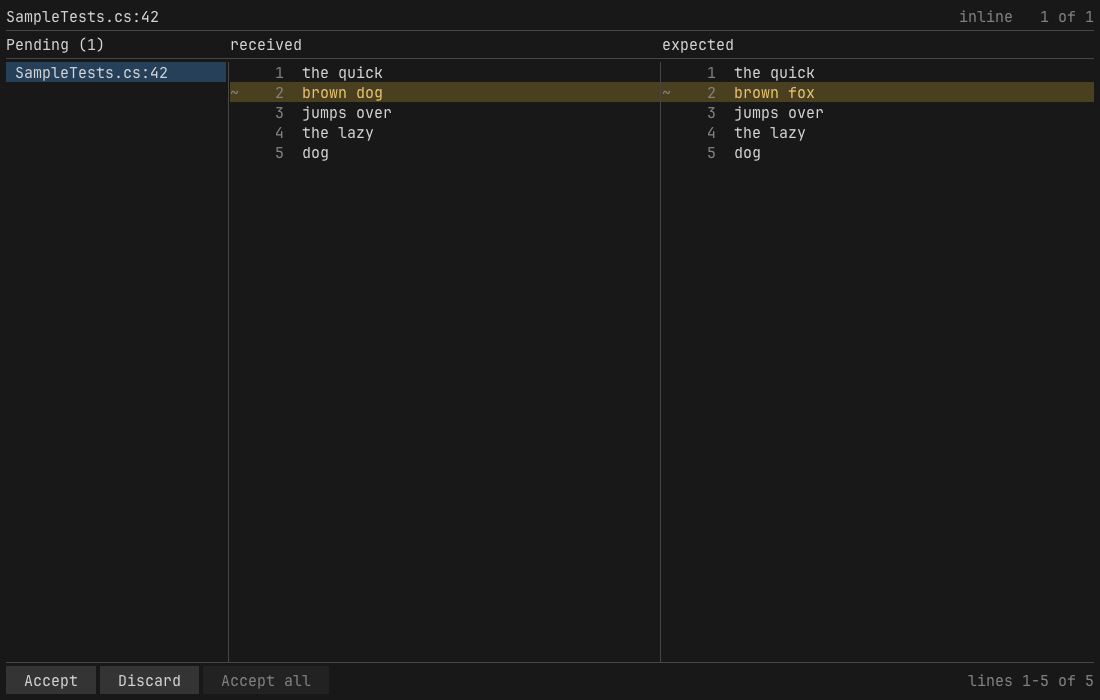
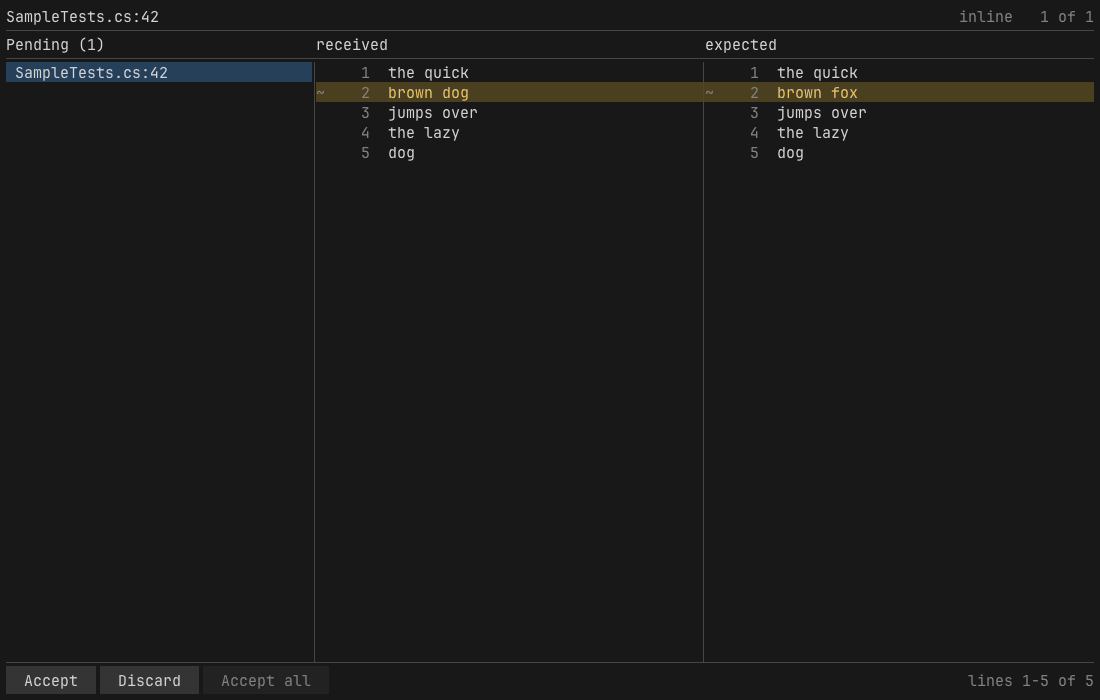
Keep the ImGui queue column deterministic and drag it by hand
ImGuiTableFlags_Resizable would give the drag for free, but it also hands the column width to
ImGui's table state, which initialises once and then auto-fits or restores from saved settings. A
fixed column that is not resizable takes InitStretchWeightOrWidth on every frame instead
(imgui_tables.cpp TableGetColumnWidthAuto), which is what made the old constant 220 reproduce.

The pixel captures share one context and one table id and draw a single frame each, so with
Resizable the width carried between them: in one CI run the same column came out at 34 cells for
InlineSingle and InlineQueue, a content fit for LongQueueLabel, and the old width for
InlineAccepted, which is a baseline that depends on the order the tests ran in.

So the width lives in State, is handed to the table every frame, and the drag is an InvisibleButton
over the border. Submitted after the table so it wins the overlap, and inert during a capture,
which never feeds a mouse button. It moves the width by the distance between the cursor and the
border rather than setting it from the cursor, because a column width is its inner width and the
border sits a padding and a spacing further right.

Also applies the cursor ImGui asks for. Nothing here did, so ResizeEW would have been recorded and
never shown.

The macOS baselines are the ones from the CI run and are final. The Linux ones still have to be
regenerated against a binary built from this.

Changed region(s): [[0.1855, 0.06, 0.4327, 0.24], [0.5873, 0.06, 0.8036, 0.24]]

diff --git a/native/src/deview.cpp b/native/src/deview.cpp
@@ -12,6 +12,7 @@
 #include "raylib.h"
 #include "rlgl.h"
 
+#include <algorithm>
 #include <cstring>
 #include <string>
 
@@ -35,15 +36,56 @@ void ClearCloseFlag()
     }
 }
 
+/*
+ * Queue column widths, counted in character cells rather than pixels so a scaled display gets a
+ * column that holds the same number of characters rather than a narrower one.
+ */
+constexpr float queueCells = 34.0f;
+constexpr float minQueueCells = 8.0f;
+
+/*
+ * What the drag leaves each of the two panes, so the splitter cannot be pushed far enough right to
+ * squeeze them out of existence.
+ */
+constexpr float minPaneCells = 12.0f;
+
+/*
+ * How far either side of the divider counts as grabbing it. The border is a single pixel, which is
+ * not something a mouse can be asked to hit.
+ */
+constexpr float grabWidth = 4.0f;
+
 struct State
 {
     bool initialised = false;
     bool windowOpen = false;
     ImGuiContext* context = nullptr;
     DeviewInput input{};
+
+    /*
+     * The queue column, owned here rather than by the table.
+     *
+     * ImGuiTableFlags_Resizable would give the drag for free, but it also hands the width to
+     * ImGui's own table state, which initialises once and then auto-fits or restores from saved
+     * settings. A column that is fixed and not resizable takes InitStretchWeightOrWidth on every
+     * frame instead, which is a width this side decides and can therefore reproduce: the pixel
+     * captures share one context and one table id and draw a single frame each, so anything
+     * carried between them shows up as a snapshot that depends on the test order.
+     */
+    float queueWidth = 0.0f;
+
+    /* What was last handed to raylib, so an idle frame is not a window system call. */
+    int cursor = MOUSE_CURSOR_DEFAULT;
 };
 
 State state;
+
+float ClampQueueWidth(float value, float available, float cell)
+{
+    const float low = cell * minQueueCells;
+    const float high = std::max(low, available - cell * minPaneCells * 2.0f);
+    return std::min(std::max(value, low), high);
+}
 
 void ResetInput()
 {
@@ -395,30 +437,32 @@ void BuildFrame(const DeviewScreen* screen)
 
     const bool hasQueue = screen->queueCount > 0;
     const int columns = hasQueue ? 3 : 2;
-    /* Resizable is what makes the border between the queue and the panes draggable. ImGui keeps the
-     * dragged width in its own table state for the life of the context, which is the whole run, and
-     * IniFilename is null so nothing of it reaches disk. */
+    const float cell = ImGui::CalcTextSize("M").x;
+    if (state.queueWidth <= 0.0f)
+    {
+        state.queueWidth = cell * queueCells;
+    }
+
+    /* The body, measured before the table so the drag zone can span all of it rather than only the
+     * rows the table happens to have. */
+    const ImVec2 bodyMin = ImGui::GetCursorScreenPos();
+    const ImVec2 bodyAvail = ImGui::GetContentRegionAvail();
+    const float queueWidth = ClampQueueWidth(state.queueWidth, bodyAvail.x, cell);
+
+    /* Where the border between the queue and the panes ended up, read back from the table rather
+     * than recomputed, and -1 until a row has been laid out. */
+    float dividerX = -1.0f;
     if (screen->paneCount >= 2 &&
-        ImGui::BeginTable(
-            "##panes",
-            columns,
-            ImGuiTableFlags_BordersInnerV | ImGuiTableFlags_SizingStretchSame | ImGuiTableFlags_Resizable))
+        ImGui::BeginTable("##panes", columns, ImGuiTableFlags_BordersInnerV | ImGuiTableFlags_SizingStretchSame))
     {
         const DeviewPane& left = screen->panes[0];
         const DeviewPane& right = screen->panes[1];
         if (hasQueue)
         {
-            /* Counted in character cells rather than pixels, so a scaled display gets a column
-             * holding the same number of characters rather than a narrower one. Only the initial
-             * width: from the second frame on, the table reports whatever it was dragged to. */
-            ImGui::TableSetupColumn("Pending", ImGuiTableColumnFlags_WidthFixed, ImGui::CalcTextSize("M").x * 34.0f);
+            ImGui::TableSetupColumn("Pending", ImGuiTableColumnFlags_WidthFixed, queueWidth);
         }
 
-        /* NoResize on the received column pins the border to its right, which is the one between
-         * the two panes. Only the queue divider moves, matching the other two heads. */
-        ImGui::TableSetupColumn(
-            Copy(screen, left.headerOffset, left.headerLength).c_str(),
-            ImGuiTableColumnFlags_NoResize);
+        ImGui::TableSetupColumn(Copy(screen, left.headerOffset, left.headerLength).c_str());
         ImGui::TableSetupColumn(Copy(screen, right.headerOffset, right.headerLength).c_str());
         ImGui::TableHeadersRow();
 
@@ -460,12 +504,48 @@ void BuildFrame(const DeviewScreen* screen)
             }
 
             ImGui::TableSetColumnIndex(column);
+            if (hasQueue && dividerX < 0.0f)
+            {
+                dividerX = ImGui::GetCursorScreenPos().x - ImGui::GetStyle().CellPadding.x;
+            }
+
             DrawRow(screen, left, index, column);
             ImGui::TableSetColumnIndex(column + 1);
             DrawRow(screen, right, index, column + 1);
         }
 
         ImGui::EndTable();
+    }
+
+    /*
+     * The drag, submitted after the table so it wins the overlap: within a window the last item to
+     * claim a position is the one that hovers. Inert in a capture, which never feeds a mouse
+     * button, so the width stays whatever this side decided.
+     */
+    if (dividerX >= 0.0f)
+    {
+        const ImVec2 resume = ImGui::GetCursorScreenPos();
+        ImGui::SetCursorScreenPos(ImVec2(dividerX - grabWidth, bodyMin.y));
+        ImGui::InvisibleButton(
+            "##queue-splitter",
+            ImVec2(grabWidth * 2.0f + 1.0f, std::max(1.0f, bodyAvail.y)));
+        if (ImGui::IsItemHovered() || ImGui::IsItemActive())
+        {
+            ImGui::SetMouseCursor(ImGuiMouseCursor_ResizeEW);
+        }
+
+        if (ImGui::IsItemActive())
+        {
+            /* Moved by the distance between the cursor and the border it is dragging, rather than
+             * set from the cursor: a column's width is its inner width, and the border sits a
+             * padding and a spacing further right. A delta needs to know neither. */
+            state.queueWidth = ClampQueueWidth(
+                queueWidth + ImGui::GetIO().MousePos.x - dividerX,
+                bodyAvail.x,
+                cell);
+        }
+
+        ImGui::SetCursorScreenPos(resume);
     }
 
     ImGui::EndChild();
@@ -617,6 +697,17 @@ int32_t deview_present(const DeviewScreen* screen)
     ImGui::NewFrame();
     BuildFrame(screen);
     ImGui::Render();
+
+    /* ImGui only records the cursor it wants. Showing it is the backend's job, and the splitter is
+     * the one thing here that asks for anything but an arrow. */
+    const int cursor = ImGui::GetMouseCursor() == ImGuiMouseCursor_ResizeEW
+        ? MOUSE_CURSOR_RESIZE_EW
+        : MOUSE_CURSOR_DEFAULT;
+    if (cursor != state.cursor)
+    {
+        state.cursor = cursor;
+        SetMouseCursor(cursor);
+    }
 
     BeginDrawing();
     ClearBackground(Color{24, 24, 24, 255});
